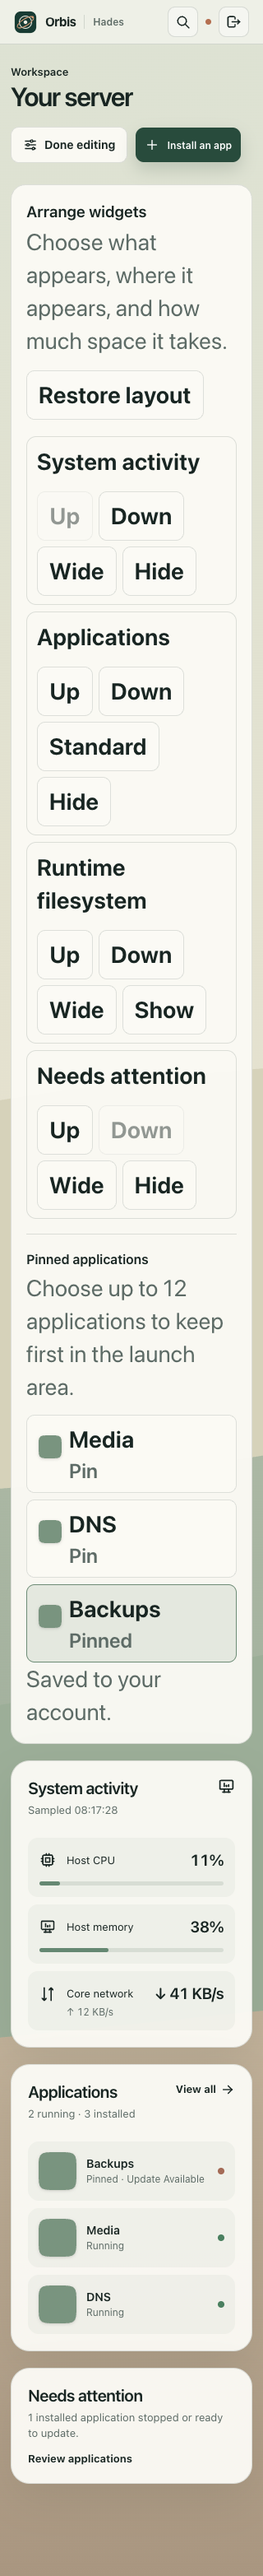
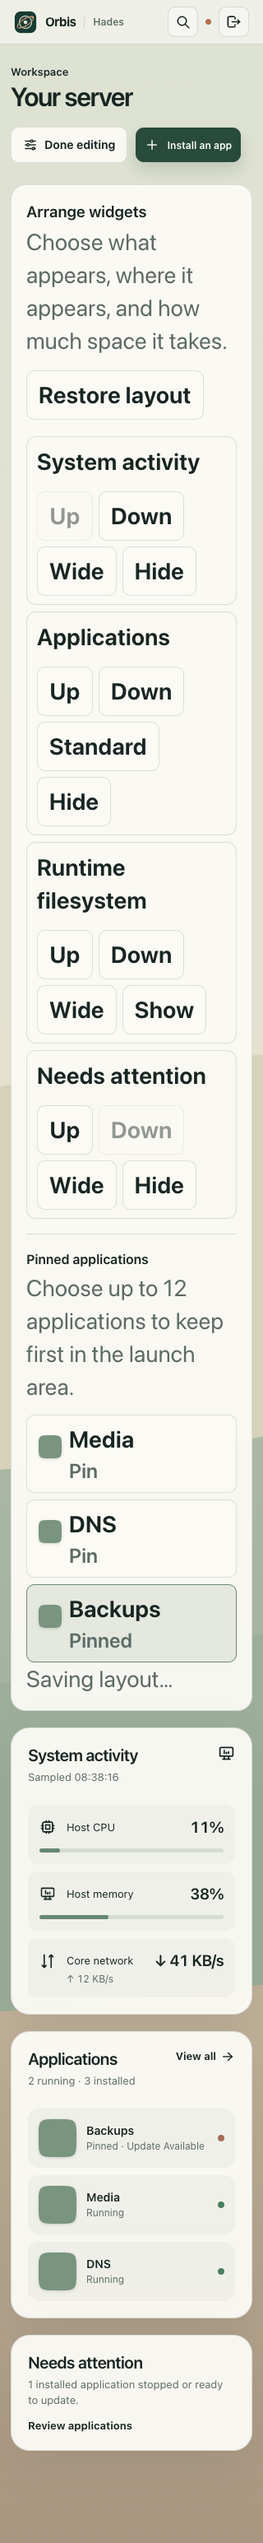
Report queued workspace saves and verify beta 5 runtime

Changed region(s): [[0.0312, 0.0, 0.9688, 0.9631], [0.8125, 0.8388, 0.8438, 0.8699]]

diff --git a/packages/frontend/src/desktop/preferences.tsx b/packages/frontend/src/desktop/preferences.tsx
@@ -126,8 +126,8 @@ export const DesktopPreferencesProvider = ({ children }: PropsWithChildren) => {
   useEffect(() => {
     if (!serverReady || !hydrated) return;
     const controller = new AbortController();
+    setSyncState('saving');
     const timer = window.setTimeout(async () => {
-      setSyncState('saving');
       try {
         const response = await fetch('/api/desktop-preferences', {
           method: 'PUT',

diff --git a/DEPLOYMENT.md b/DEPLOYMENT.md
@@ -28,7 +28,9 @@ This boot exposed a status delay: the inherited Whoami container was stopped, bu
 
 The `v0.1.0-beta.3` release passed its CI, integration, and publish jobs. The release manifest and anonymous GHCR OCI index agree on `sha256:fd601494a394c9dafb06cb7c37041f513823f030a9b1f4be0e643e1d6682522f`, with linux/amd64 and linux/arm64 entries. The published arm64 image was pulled by that digest and booted on the same stopped synthetic CLI data. The core and proxy became healthy and `/api/health` returned 200. This image includes the startup status fix. Its amd64 variant has been built and indexed but has not been booted in our isolated runtime.
 
-The `v0.1.0-beta.4` release also passed its gated CI, integration, and publish jobs. Its attached manifest and anonymous GHCR OCI index match at `sha256:79598b0970577dfb4f31404c9fa6612b0c11f2926a4ad40e8f5e0ff61a5d70b2`, with linux/amd64 and linux/arm64 entries. Its published arm64 image was subsequently pulled by digest and booted on the stopped synthetic CLI data. The core, database, queue, and proxy became healthy; `/api/health` returned 200; the original session returned the expected build identity, one inherited `whoami:migrated` installation, the existing store, and scoped telemetry. The amd64 image is indexed but has not been booted in this VM. Beta 4 contains the shared Workspace telemetry and the host command tested on beta 3's published image.
+The `v0.1.0-beta.4` release also passed its gated CI, integration, and publish jobs. Its attached manifest and anonymous GHCR OCI index match at `sha256:79598b0970577dfb4f31404c9fa6612b0c11f2926a4ad40e8f5e0ff61a5d70b2`, with linux/amd64 and linux/arm64 entries. Its published arm64 image was subsequently pulled by digest and booted on the stopped synthetic CLI data. The core, database, queue, and proxy became healthy; `/api/health` returned 200; the original session returned the expected build identity, one inherited `whoami:migrated` installation, the existing store, and scoped telemetry. Chrome opened the inherited account's Workspace and displayed Whoami without page errors or horizontal overflow. The amd64 image is indexed but has not been booted in this VM. Beta 4 contains the shared Workspace telemetry and the host command tested on beta 3's published image.
+
+The `v0.1.0-beta.5` release passed CI, integration, and image publication. The GitHub tag, attached manifest, and GHCR OCI index agree on commit `14d9fce077842ccd5432c05ba74aa70226e12f67` and image digest `sha256:e1fefcbaf0b174f443d631daa7ab754fddfbbc144a6836d70327c00c65ed81fc`, with linux/amd64 and linux/arm64 entries. Its published arm64 image was pulled by digest and booted on a stopped-state copy of the synthetic CLI installation. The four core services became healthy; `/api/health` and authenticated build, installed-app, and desktop-preference requests returned 200. The inherited Whoami app remained installed. Chrome saved a pin for it through Workspace, and a fresh phone-width browser session showed the saved pin without page errors or horizontal overflow. A quick reload during the save debounce exposed that beta 5 can briefly show a stale “Saved” label; the source after this tag now shows “Saving layout…” as soon as a change is queued. The amd64 image is indexed but has not been booted in this VM.
 
 ## Isolated Linux test host
 

diff --git a/UPDATES.md b/UPDATES.md
@@ -26,4 +26,4 @@ For the later multi-homelab design, the paired host agent can provide this same 
 
 The current fork preserves the existing Runtipi app update mechanisms. Its Update Center links available app updates to their real detail flows and reads published Orbis release notes directly from GitHub. It does not yet provide an Orbis release installer or host operating system updater. Those controls must not appear as working actions until the helper, packaging, and rollback have passed disposable-host tests.
 
-The tag workflow builds `ghcr.io/twentylines/orbis` for amd64 and arm64, records the immutable image digest in `release-manifest.json`, and publishes notes from the matching `releases/<tag>.md` file. Repository CI and integration tests run first. Prereleases `v0.1.0-beta.1` through `v0.1.0-beta.4` have public GHCR images and attached digest manifests. A read-only release checker verifies a published GitHub tag, its attached manifest, and the exact GHCR image-index bytes and supported platforms. A separate release planner validates that manifest against a copied CLI installation and checks that a Compose image override preserves all other services and settings. A staging command can write only that generated, digest-pinned override after an operator has captured a verified snapshot. The browser reads the installed version and commit from the running container and states when the deployment did not supply an image digest. The first four published arm64 beta images were booted in a disposable CLI stack; beta 4 preserved the inherited account, app record, and store. A host command can enroll an already healthy Orbis core and start/stop that same digest with the override included; it does not install, update, snapshot, or roll back. No automatic installer or host update controller exists yet.
+The tag workflow builds `ghcr.io/twentylines/orbis` for amd64 and arm64, records the immutable image digest in `release-manifest.json`, and publishes notes from the matching `releases/<tag>.md` file. Repository CI and integration tests run first. Prereleases `v0.1.0-beta.1` through `v0.1.0-beta.5` have public GHCR images and attached digest manifests. A read-only release checker verifies a published GitHub tag, its attached manifest, and the exact GHCR image-index bytes and supported platforms. A separate release planner validates that manifest against a copied CLI installation and checks that a Compose image override preserves all other services and settings. A staging command can write only that generated, digest-pinned override after an operator has captured a verified snapshot. The browser reads the installed version and commit from the running container and states when the deployment did not supply an image digest. All five published arm64 beta images were booted in a disposable CLI stack; beta 5 retained the inherited app and persisted a Workspace pin through the browser. A host command can enroll an already healthy Orbis core and start/stop that same digest with the override included; it does not install, update, snapshot, or roll back. No automatic installer or host update controller exists yet.

diff --git a/CHANGELOG.md b/CHANGELOG.md
@@ -21,5 +21,8 @@
 - Published `v0.1.0-beta.3` with the startup reconciliation fix; verified its arm64 image and an enrolled Orbis host stop/start cycle on a synthetic CLI installation.
 - Published `v0.1.0-beta.4` with shared Workspace telemetry and the host command; booted its arm64 image on the synthetic CLI data and verified the inherited account, app record, and store.
 - Added Workspace editing for the four widgets and per-user pinning for up to 12 installed applications. Checked desktop, phone, and enlarged text layouts in Chrome.
+- Shared telemetry probes across simultaneous browsers with a four-second server cache so each viewer does not trigger duplicate filesystem and network reads.
+- Added a read-only release checker that verifies GitHub's release tag and manifest against the exact GHCR image-index bytes and both supported Linux architectures.
+- Corrected the Workspace sync label to show a queued save immediately, avoiding a stale “Saved” message during the debounce window.
 
 Real homelab migration, automatic core installation and rollback, host package updates, and multi-server pairing remain outstanding.
